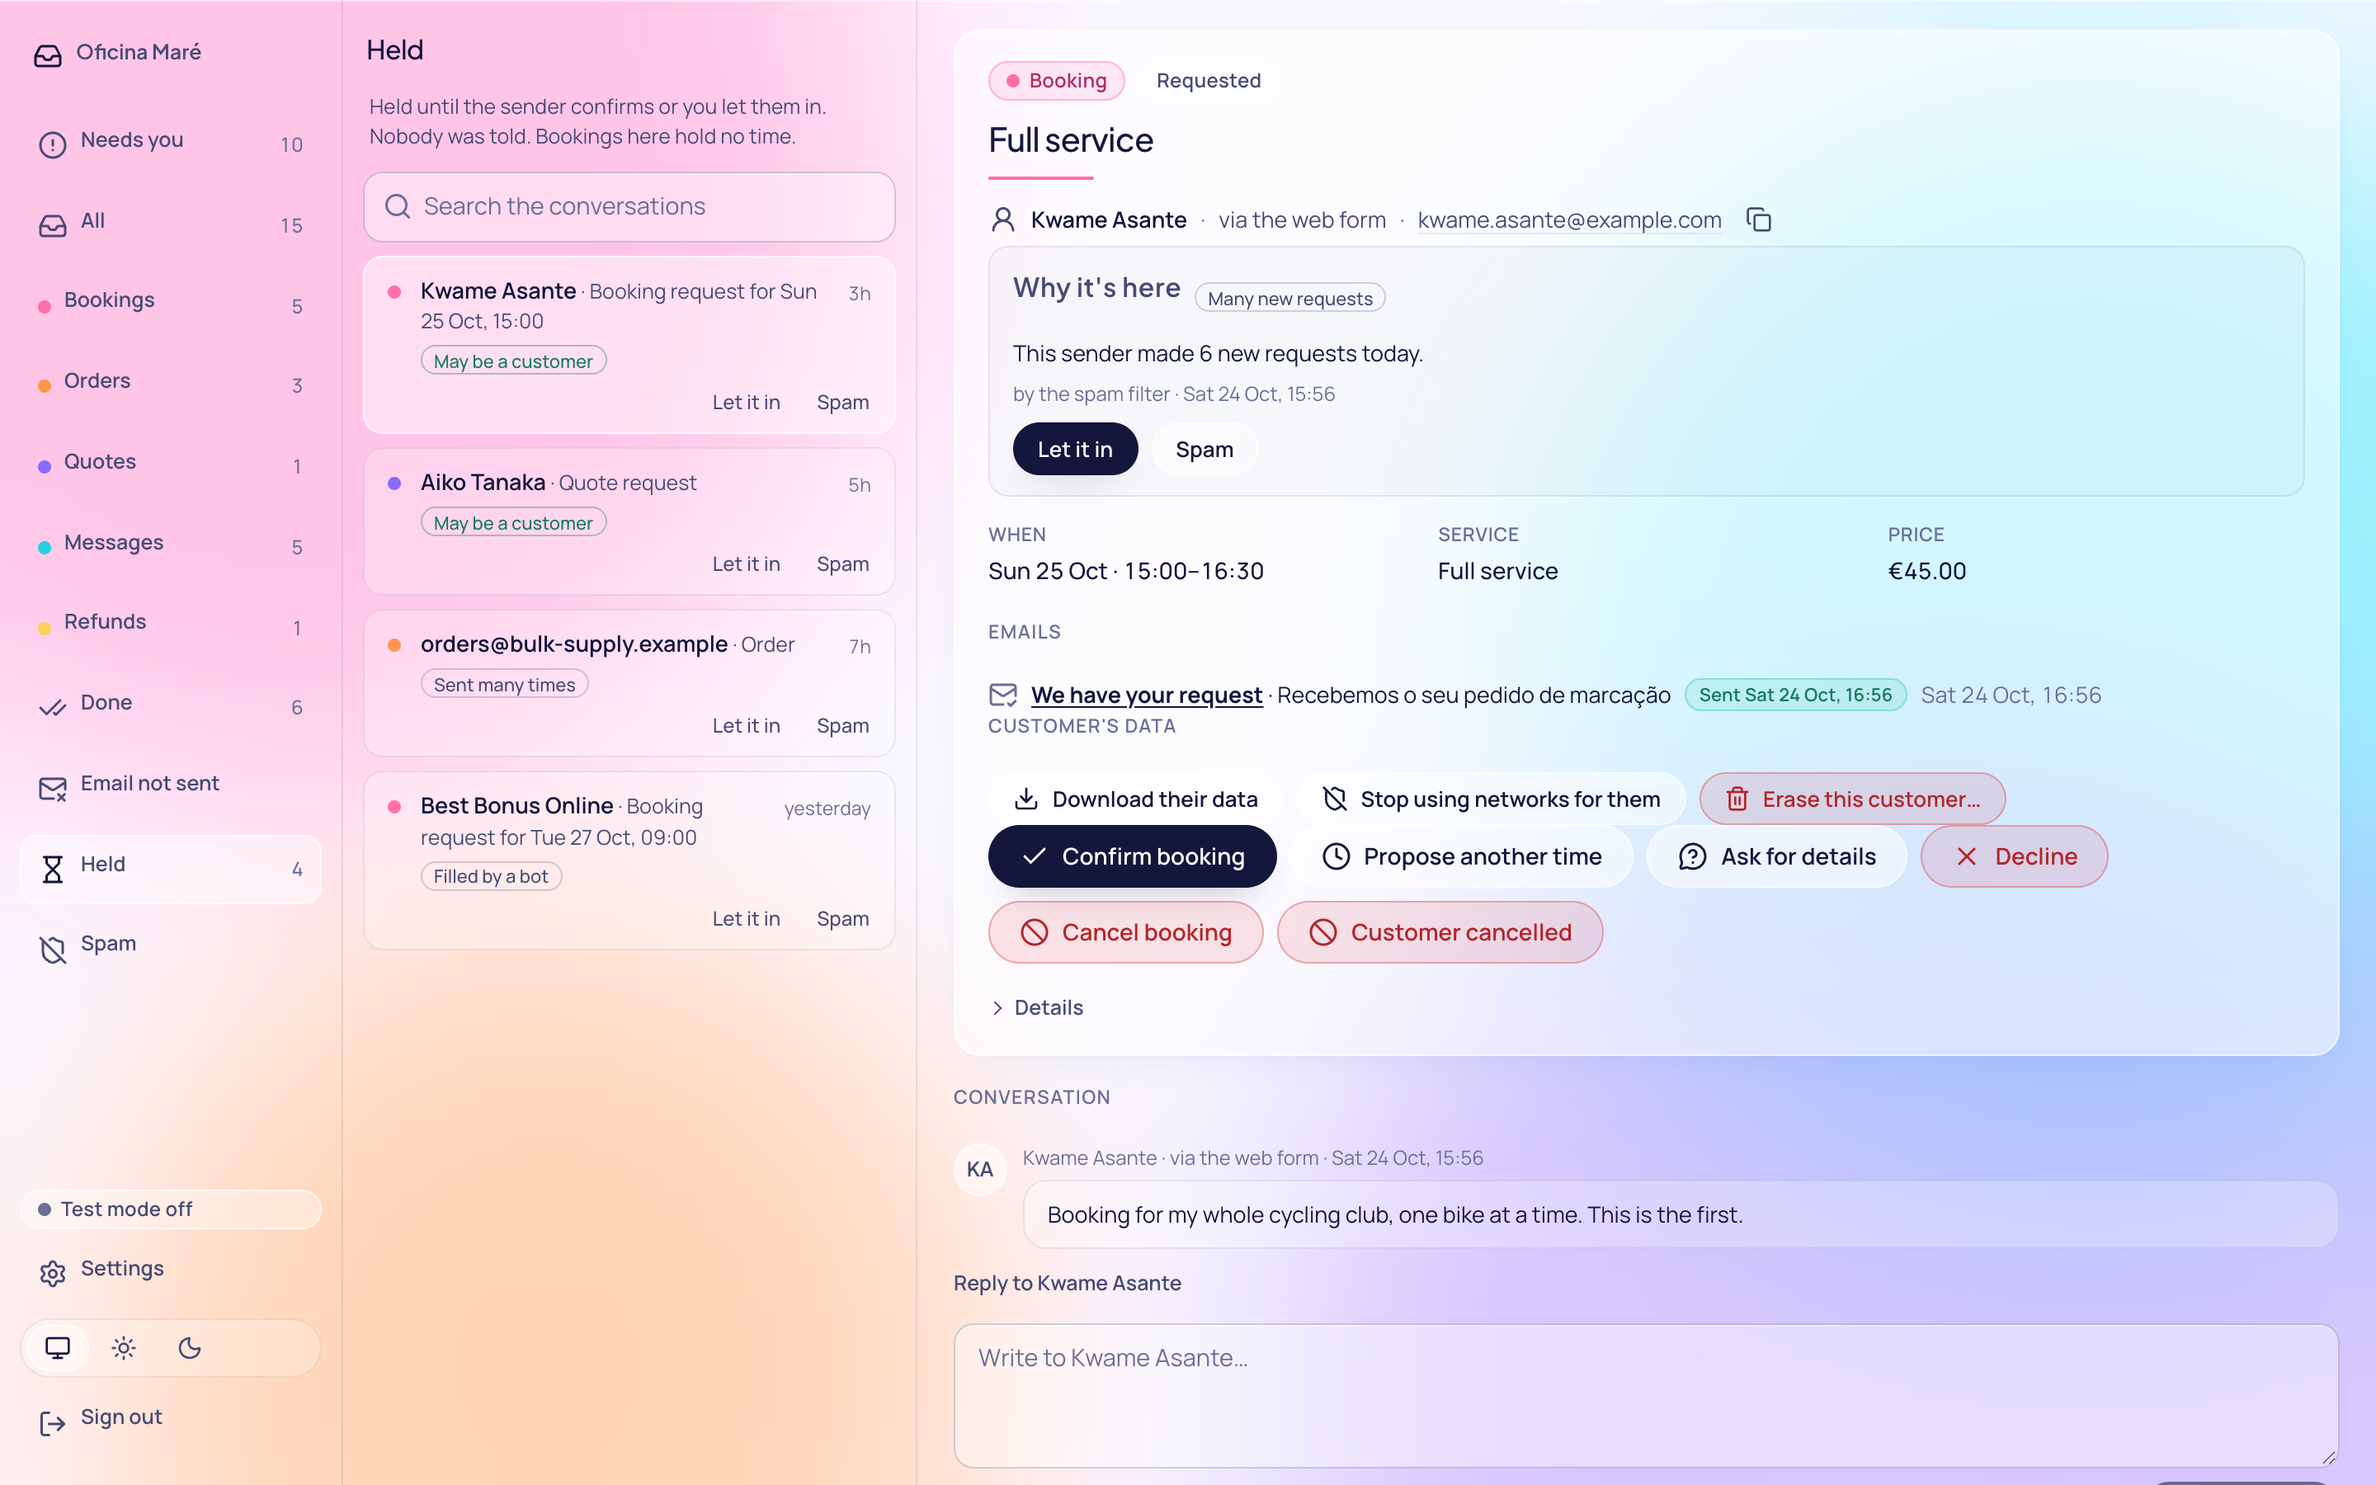
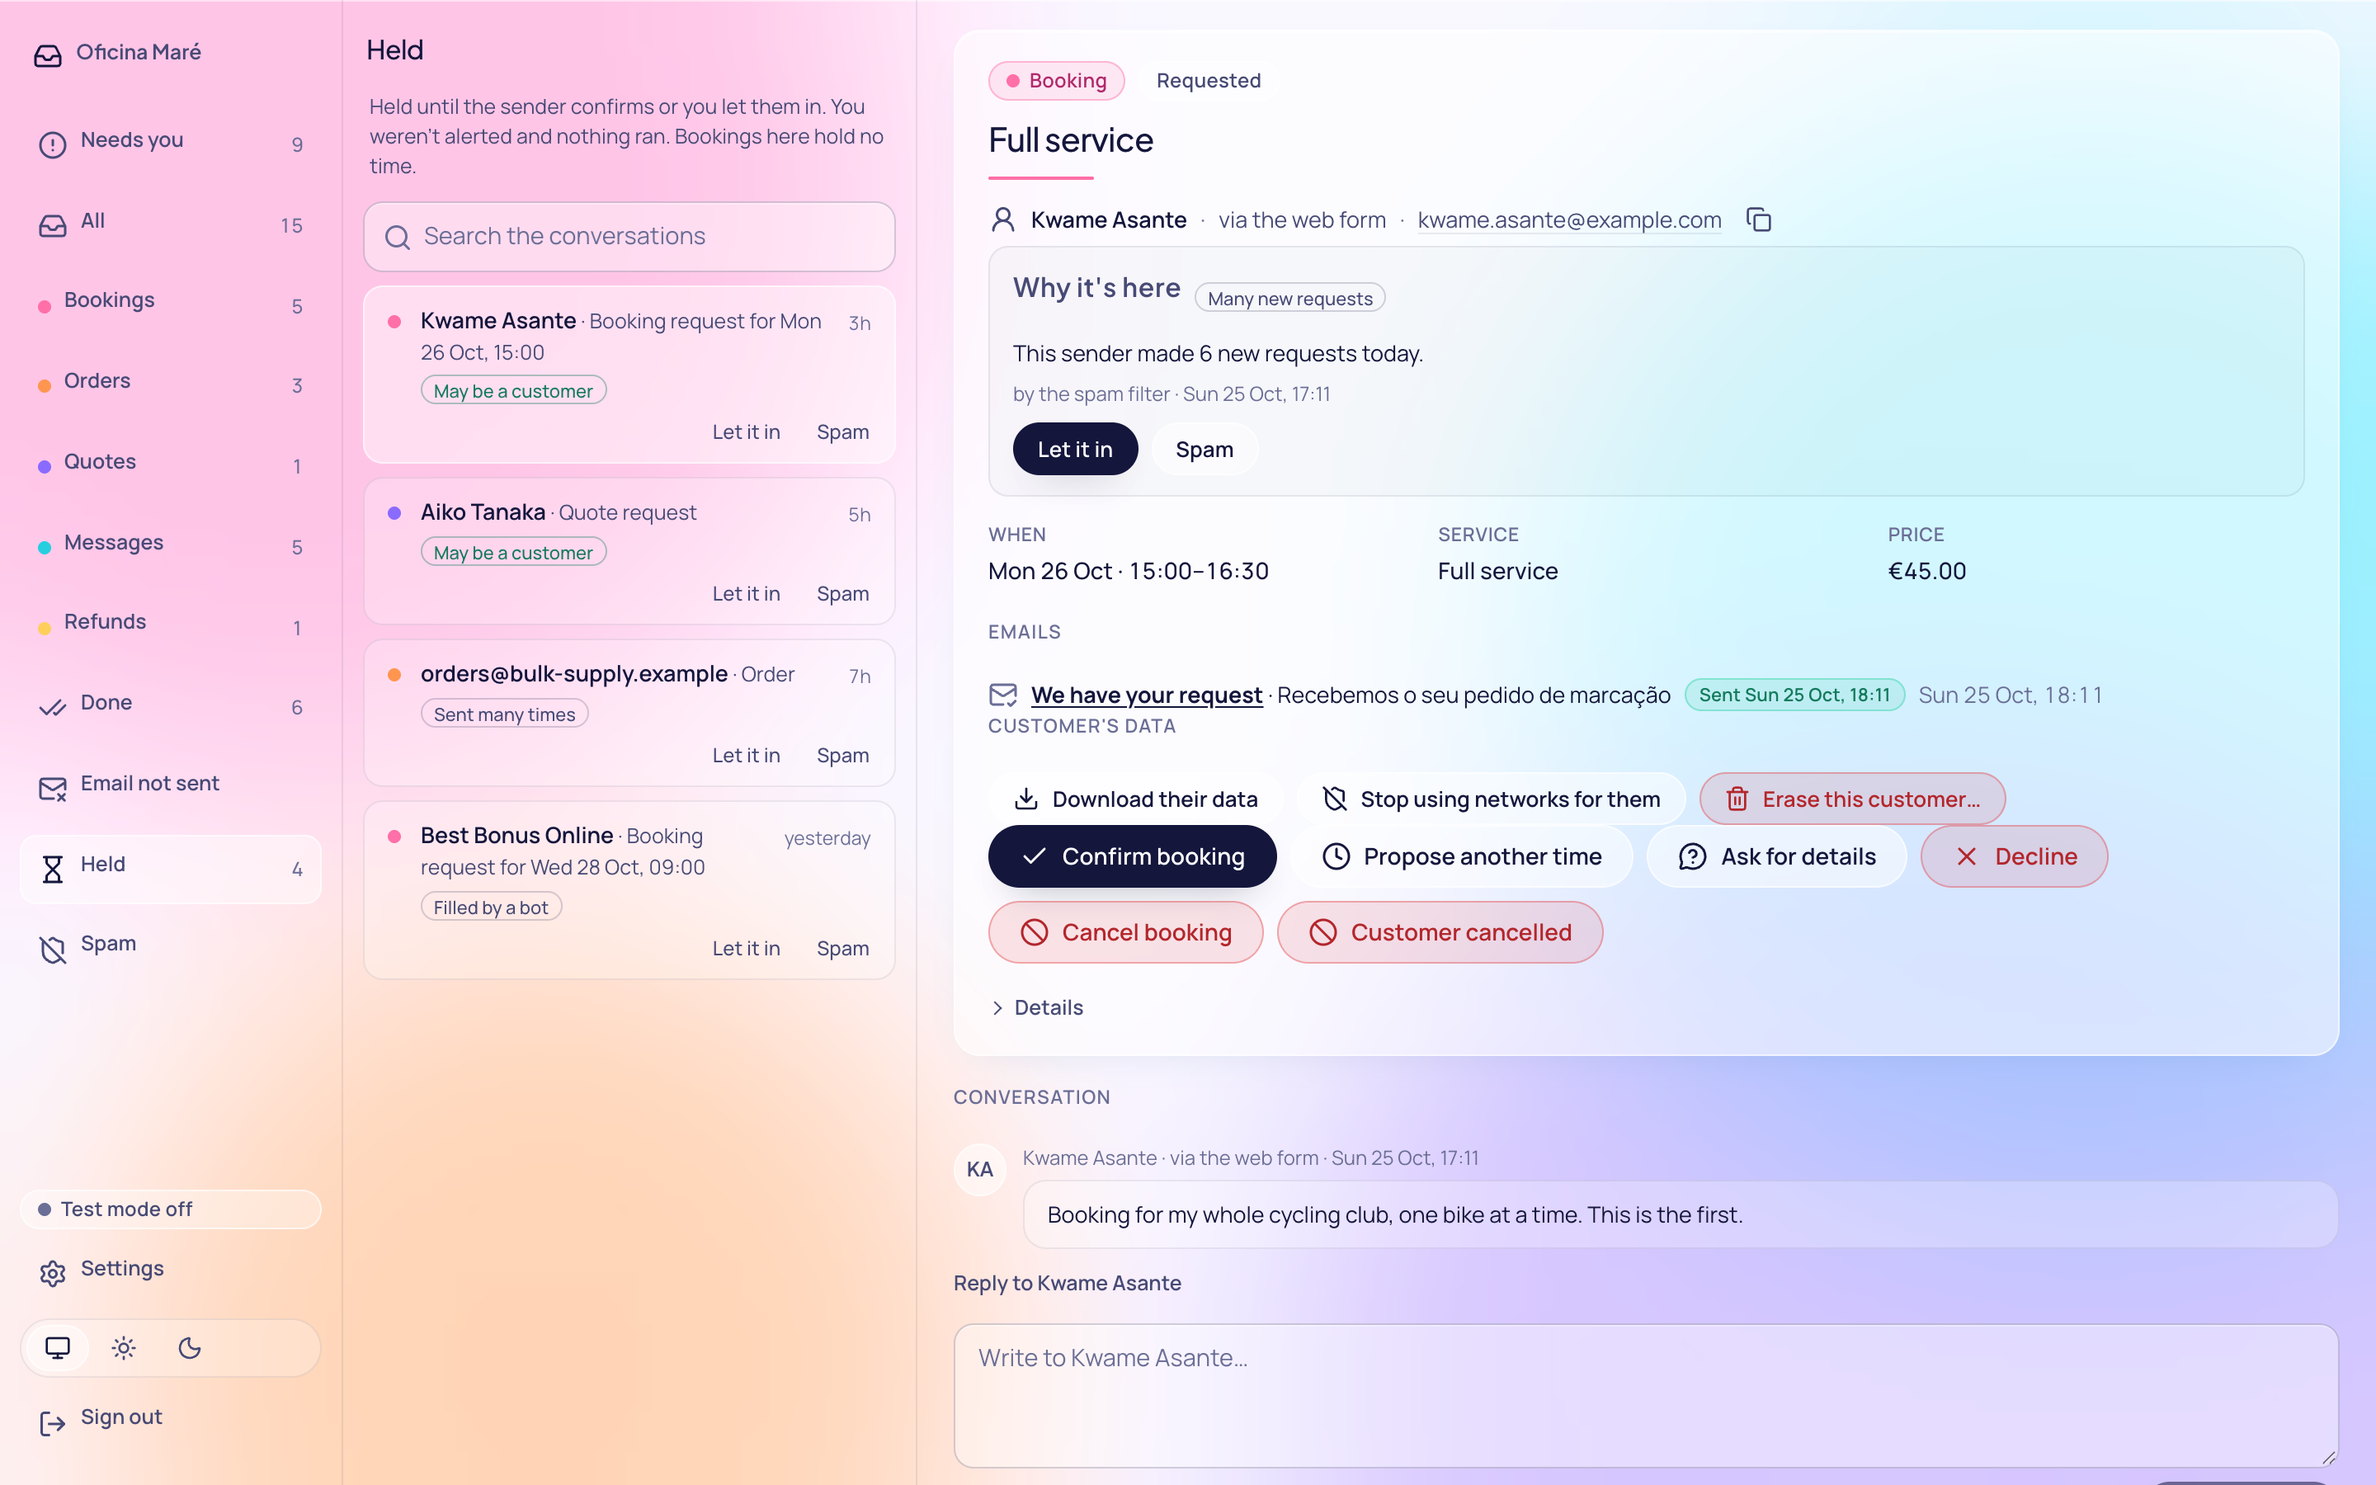
Spam filter on the site: what it refuses and keeps, said as it is, and the phone's print whole
- The docs and the FAQ say the filter never refuses, bounces or deletes a request for what it says,
  and that a sender starting far more new requests in a day than a person would is asked to try again
  later. Nothing promises a clear that does not exist. The Held caption says "You weren't alerted and
  nothing ran."
- The docs name what the AI check masks (the subject and the sender's name too, in any script's
  digits), who sets the model's key, how platform keys and forged mail are counted, what the confirm
  link does afterwards, and what erasure removes.
- /inbox/spam/'s phone print is a held booking request whole (why it's here, Let it in and Spam), in
  day and night. `pnpm --filter @surfingdog/inbox shots phone` makes it from the phone app's demo, and
  `shots spam held` remakes only the spam prints, which are remade here.

diff --git a/apps/site/test/spam-pages.node.test.ts b/apps/site/test/spam-pages.node.test.ts
@@ -89,6 +89,23 @@ describe("the spam filter's pages", () => {
     expect(published).not.toMatch(/\bservers? (in|at)\b|\bhosted in\b|data cent(er|re)/i);
   });
 
+  it("say what it does as it does it: a flood asked to come back later, nothing to clear, who was not told", () => {
+    const docs = read(DOCS);
+    // It never refuses for what a request says; a sender starting far more than a person would is asked to retry.
+    expect(docs).not.toMatch(/It never refuses, bounces, deletes/);
+    expect(docs).toMatch(/never refuses, bounces or deletes a request for what it says/);
+    expect(docs).toContain("asked to try again later");
+    const miss = SPAM_FAQS.find((f) => f.q === "Will I miss a customer?")?.a ?? "";
+    expect(miss).toContain("for what it says");
+    expect(miss).toContain("asked to retry later");
+    // There is no "clear" to press: what is kept is kept until a time is chosen.
+    for (const text of [docs, ...SPAM_FAQS.map((f) => f.a), ...SPAM_GUIDE_FAQS.map((f) => f.a)]) {
+      expect(text).not.toMatch(/until (you|I) clear/i);
+    }
+    // The sender got their acknowledgement: what was not told is the owner, and nothing ran.
+    expect(read(PAGE)).not.toMatch(/Nobody was told/);
+  });
+
   it("answer in a few words, with questions that fit a search result", () => {
     expect(SPAM_PAGE.title.length).toBeLessThanOrEqual(60);
     expect(SPAM_PAGE.description.length).toBeLessThanOrEqual(160);
@@ -128,6 +145,7 @@ describe("the spam filter's pages", () => {
     const shown = [...read(PAGE).matchAll(/(?:src|night)="(\/shots\/[^"]+)"/g)].map((m) => m[1] ?? "");
     expect(shown.sort()).toEqual([
       "/shots/held-day.png",
+      "/shots/phone-held-night.png",
       "/shots/phone-held.png",
       "/shots/spam-day.png",
       "/shots/spam-night.png",

diff --git a/apps/site/src/lib/spam.ts b/apps/site/src/lib/spam.ts
@@ -48,7 +48,7 @@ export const SPAM_LINES = {
 export const SPAM_FAQS: readonly Faq[] = [
   {
     q: "Will I miss a customer?",
-    a: "No request is refused, bounced or deleted by the filter. What it is sure of waits under Spam, explained, until you clear it. Bookings, orders and quote requests it doubts wait under Held, holding no time, until the sender confirms or you let them in. What it is unsure of reaches you with a label.",
+    a: "Nothing is refused, bounced or deleted for what it says. What it is sure of waits under Spam, explained. Bookings, orders and quote requests it doubts wait under Held, holding no time, until the sender confirms or you let them in. The rest reaches you, labelled if unsure. A sender flooding you with new requests is asked to retry later.",
   },
   {
     q: "What does a customer see?",
@@ -141,7 +141,7 @@ export const SPAM_GUIDE_OPTIONS: readonly GuideOption[] = [
 export const SPAM_GUIDE_FAQS: readonly Faq[] = [
   {
     q: "Should spam be deleted automatically?",
-    a: "No. A filter is sometimes wrong, and a deleted customer is a lost one. Keep what it catches where you can see it, with the reason, and clear it yourself, or after a month or three if you choose.",
+    a: "No. A filter is sometimes wrong, and a deleted customer is a lost one. Keep what it catches where you can see it, with the reason, for as long as you choose: for good, or a month or three.",
   },
   {
     q: "Do I need a CAPTCHA?",

diff --git a/apps/site/src/content/docs/docs/spam.md b/apps/site/src/content/docs/docs/spam.md
@@ -3,13 +3,13 @@ title: Spam filter
 description: How the inbox keeps sales pitches, scams and junk off your desk without losing a customer, what it reads, what leaves your server and when, connecting your own AI model, and what a sender sees.
 ---
 
-The inbox screens every request from someone new as it arrives, on every door: email, your own website, and AI agents. What is not from a customer waits under **Spam** or **Held** instead of on your desk. Nobody is told, nothing is deleted, and one tap brings anything back.
+The inbox screens every request from someone new as it arrives, on every door: email, your own website, and AI agents. What is not from a customer waits under **Spam** or **Held** instead of on your desk. Nobody is told, and one tap brings anything back.
 
 Settings → **Spam**. The design is ADR-029 in the repository's `docs/adr`.
 
 ## What it never does
 
-- It never refuses, bounces, deletes or answers differently. The worst a request meets is being put aside or held, kept and explained.
+- It never refuses, bounces or deletes a request for what it says, and never answers differently. The worst a request meets is being put aside or held, kept and explained. A sender starting far more new requests in a day than a person would is asked to try again later.
 - It never reads someone you know: a customer you have answered, confirmed or let in, anyone on **Let through**, a reply in a conversation, and everything your business makes itself.
 - It never uses language, script, country, name, spelling, length, email provider, time of day or "written by an AI" as a reason. Checks on characters look for disguise and nothing else, such as a Cyrillic letter inside a Latin word.
 - Whatever a filter does or fails to do, a request goes through: a check that times out, fails or runs out of room lets it in on what the free protection found.
@@ -36,7 +36,7 @@ On every door, on every inbox, with no AI:
 - **Posing as you**: your business's name from an address that isn't yours, an address made to look like yours, answers that would go elsewhere (Reply-To), a display name showing another address.
 - **Disguised links**: a link showing one address and going to another; links to sites listed for scams or malware.
 - **Waves**: the same message, nearly the same message, or the same link from many senders this week. A short honest question repeats freely, and bookings worded the same way by a platform never make a wave.
-- **Floods**: more new conversations in a day than a person starts. A sender is known by their key, their pass, their mailbox and their mail domain, never by their network address.
+- **Floods**: more new conversations in a day than a person starts. A sender is known by their agent's own key, their pass, their mailbox and their mail domain, never by their network address, and never by an AI platform's key, which signs for all of that platform's users. Mail no server vouched for is counted apart from the same address's signed mail, and what a bot sent counts against nobody.
 
 Its point-based outcomes started with a learning week of their own, from the day your inbox was updated.
 
@@ -68,7 +68,7 @@ Under **Why it's here**, an item says the strongest reason in a sentence, the ot
 
 It runs on a stranger's opening message, with a filter on, when nothing certain decided, the message has words enough, and there is room under the caps.
 
-- **Sent:** the message's text with every email address, phone number, IBAN, card number and link taken out (a link is cut to its domain), the sender's domain (never their address), the subject, the domains its links go to, how many files it has, and your business's name, description, languages and the names of your services and products.
+- **Sent:** the message's text with every email address, phone number, IBAN, account and card number, payment address and link taken out (a link is cut to its domain), in any script's digits, the subject and the sender's name masked the same way, the sender's domain (never their address), the domains its links go to, how many files it has, and your business's name, description, languages and the names of your services and products.
 - **Never sent:** addresses, phone numbers, anything about other customers, your settings, attachments.
 - The text sits between two random boundary lines, with a fresh value the answer must return. The answer is held to a schema of fixed choices; no sentence a model writes reaches you, a customer or your rules. Instructions inside a message change nothing, and a message that talks to an assistant or a filter is never delivered without a label.
 - Eight seconds an attempt, one retry after two, twenty seconds in all; any failure lets the request through.
@@ -80,7 +80,7 @@ On a **hosted** inbox, the host pays for the model and you connect nothing. Unti
 
 On **your own server**, either:
 
-- **Settings → Integrations → Your AI model**: choose Anthropic, OpenAI or Google Gemini, paste a key from your account (it is kept sealed under `INBOX_SECRET_KEY` and never shown again, nor downloaded), choose a model from the provider's own list (smaller models cost less and are enough here), and press **Test**: two samples go through, a sales pitch that should be spotted and a customer asking a price in Japanese who should come through. On Google's free tier, what you send may be used to improve its products: use a paid key.
+- **Settings → Integrations → Your AI model**, the owner's own to set, signed in: choose Anthropic, OpenAI or Google Gemini, paste a key from your account (it is kept sealed under `INBOX_SECRET_KEY` and never shown again, nor downloaded), choose a model from the provider's own list (smaller models cost less and are enough here), and press **Test**: two samples go through, a sales pitch that should be spotted and a customer asking a price in Japanese who should come through. On Google's free tier, what you send may be used to improve its products: use a paid key.
 - or the server's environment, which then shows as "Set by your server":
 
 | Variable | |
@@ -137,7 +137,7 @@ The inbox's WordPress plugin points AI agents at your inbox. It does not pass yo
 
 Exactly what they would without a filter: the same page after sending, the same answers to their assistant, the same status when they look again. A held request reads as received, byte for byte.
 
-- **Confirm it's me.** Every new customer's acknowledgement (bookings, orders, quote requests) carries one more line and a button: "Please confirm it's you, so we know your request reached the right person." Pressing it proves their address and, if their request was held for an uncertain reason, lets it in. A request held for a certain reason (a bot's form, a server's mark, a wave) gets no acknowledgement at all, so a forged address is never written to.
+- **Confirm it's me.** Every new customer's acknowledgement (bookings, orders, quote requests) carries one more line and a button: "Please confirm it's you, so we know your request reached the right person." Pressing it proves their address and, if their request was held for an uncertain reason, lets it in. Their later requests are screened as before, with more room for new ones in a day; a sender becomes known when you press Let it in or Not spam. A request held for a certain reason (a bot's form, a server's mark, a wave) gets no acknowledgement at all, so a forged address is never written to.
 - **An assistant's answer** says where that email went (`identity.confirm.sent_to`, masked) — see [Getting your person's request seen](/for-agents.md).
 - **Too many new requests** from one agent: `429` with `Retry-After`, and a line in the sender's language, with no reason given.
 - Your **privacy page** gains a short "Keeping out spam" section while a model may read, and loses it when none may.
@@ -154,6 +154,6 @@ The owner MCP's `spam_status` reads the filters, this month's counts, who reads,
 
 ## Removing data
 
-Erasing a customer removes the filter's verdicts on their requests, their prints, their rows on the lists and their mailbox's history. A download of your inbox keeps the verdicts, the lists, when each filter was on and the day counts; never the prints, the handles, the cached answers, or your model's key.
+Erasing a customer removes the filter's verdicts on their requests, their prints, the AI check's answers about their words, their rows on the lists and their handles' history. A download of your inbox keeps the verdicts, the lists, when each filter was on and the day counts; never the prints, the handles, the cached answers, or your model's key.
 
-**Keep what's put aside**: until you clear it (the default), 90 days or 30 days. A bot's form messages go after seven days whatever you choose; nothing you brought back is ever removed.
+**Keep what's put aside**: **Keep them** (the default), 90 days or 30 days. A bot's form messages go after seven days whatever you choose; nothing you brought back is ever removed.
